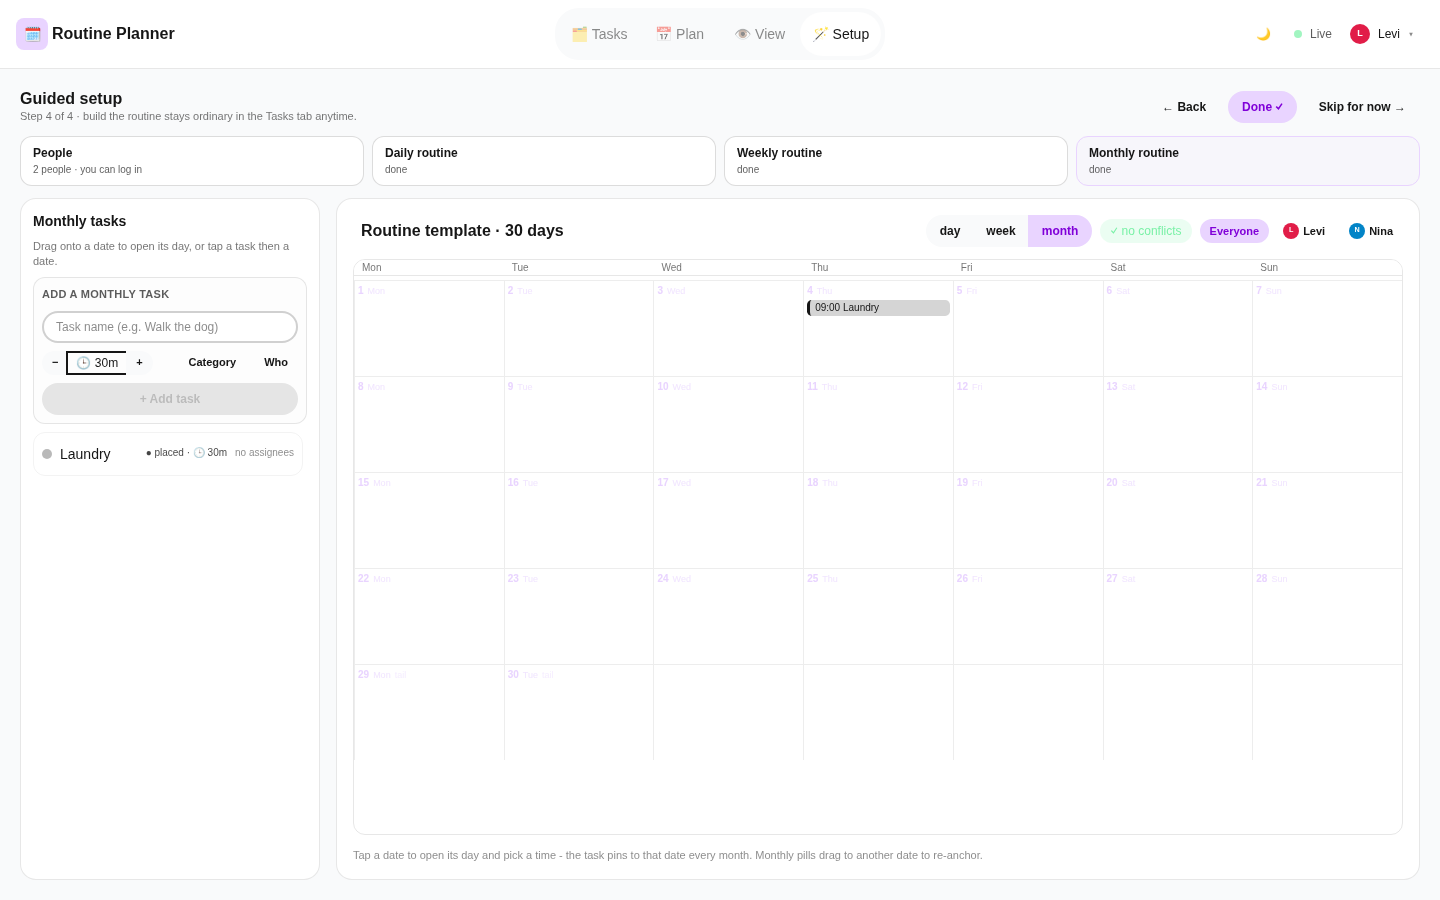
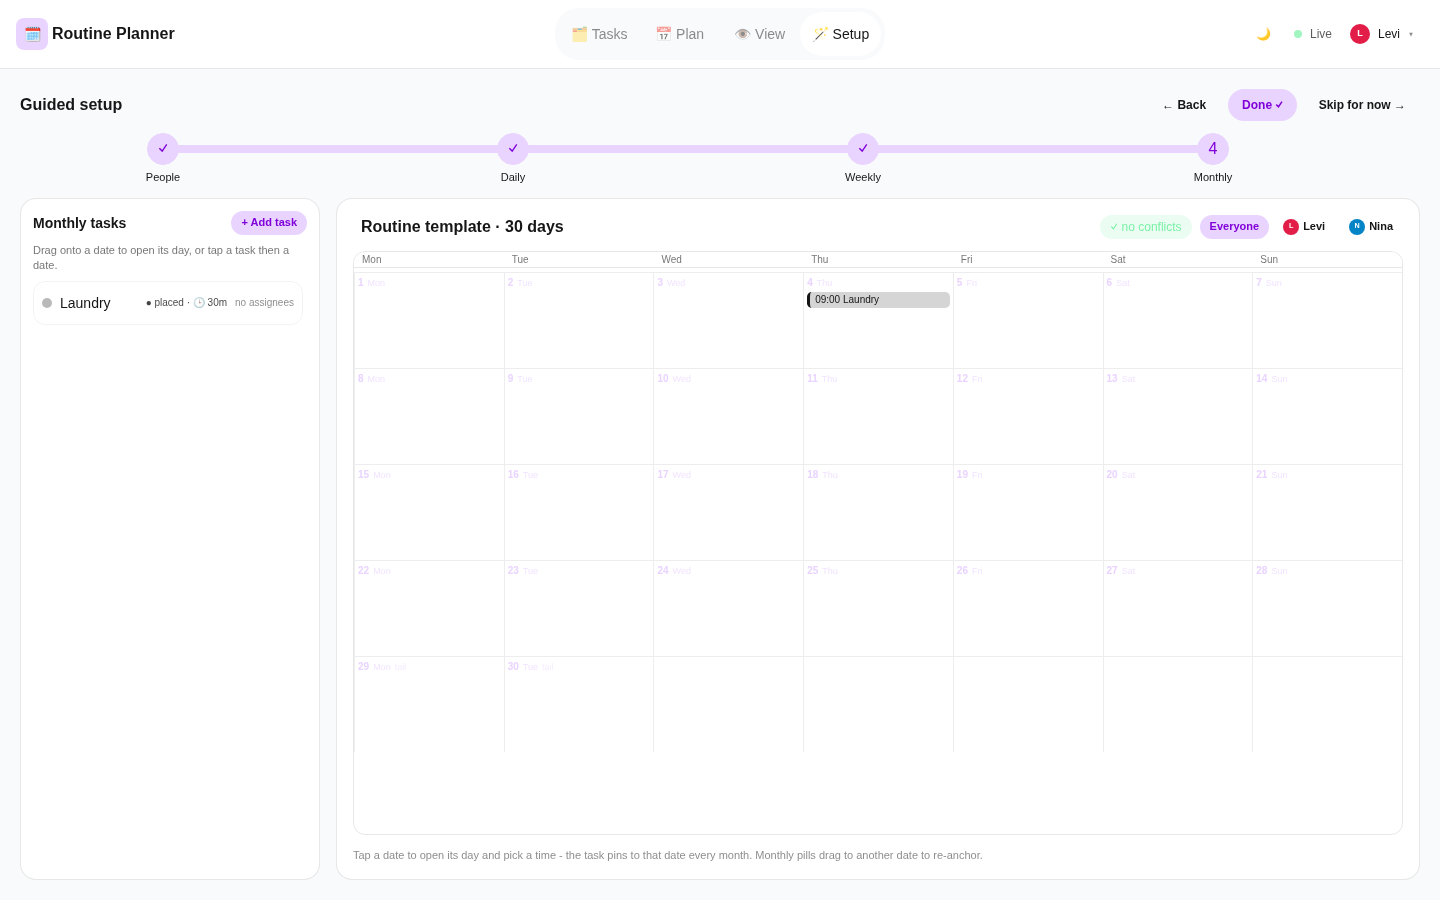
d   - plan: setup-as-plan-view decisions applied to the review artifact

diff --git a/.lavish/setup-as-plan-view.html b/.lavish/setup-as-plan-view.html
@@ -97,10 +97,41 @@
     </details>
   </section>
 
+  <!-- ============ applied decisions ============ -->
+  <section class="flex flex-col gap-4">
+    <h2 class="text-xl font-bold">Applied decisions (commit 5b093aa)</h2>
+    <div class="grid gap-3 md:grid-cols-2">
+      <div class="card bg-base-100 border border-success/40">
+        <div class="card-body p-4 gap-2">
+          <h3 class="font-bold text-sm">B · Slim stepper in the header</h3>
+          <p class="text-sm muted">The four hub cards are gone. One thin DaisyUI <code class="kbd kbd-sm">steps</code> row sits under the Back/Next controls: numbered dots, ✓ for finished steps, click any step to jump, and a small warning badge only while a scale is incomplete. The calendar gained the reclaimed row.</p>
+        </div>
+      </div>
+      <div class="card bg-base-100 border border-success/40">
+        <div class="card-body p-4 gap-2">
+          <h3 class="font-bold text-sm">Add-task noise removed</h3>
+          <p class="text-sm muted">The inline quick-add form is deleted. The rail now shows a single <b>+ Add task</b> button that opens the same TaskForm dialog the Tasks tab uses, with the stage's cadence preselected (daily opens with Daily pressed). One add experience everywhere.</p>
+        </div>
+      </div>
+      <div class="card bg-base-100 border border-success/40">
+        <div class="card-body p-4 gap-2">
+          <h3 class="font-bold text-sm">Feature visibility per your picks</h3>
+          <p class="text-sm muted">Person filter chips, conflict badge and rail category chips stay in setup. The day/week/month switcher is hidden in setup stages; in monthly it appears only inside a day drill, where "month" is the way back - switcher only, no dedicated button, as chosen.</p>
+        </div>
+      </div>
+      <div class="card bg-base-100 border border-success/40">
+        <div class="card-body p-4 gap-2">
+          <h3 class="font-bold text-sm">Empty stages unchanged</h3>
+          <p class="text-sm muted">The quiet text hint stays ("Nothing here yet - add one above…"), per your call. The + Add task button above it is the louder affordance.</p>
+        </div>
+      </div>
+    </div>
+  </section>
+
   <!-- ============ current state screenshots ============ -->
   <section class="flex flex-col gap-4">
-    <h2 class="text-xl font-bold">Current state (real screenshots)</h2>
-    <p class="muted text-sm">Same view, four scopes. Note the wizard chrome above each one: header row + four hub cards - that's ~90px of chrome before the calendar starts.</p>
+    <h2 class="text-xl font-bold">Current state (real screenshots, post-decisions)</h2>
+    <p class="muted text-sm">Same view, four scopes, new chrome. Daily/weekly/monthly open with one chrome row + stepper; the monthly drill adds the switcher as its way back.</p>
     <div role="tablist" class="tabs tabs-box self-start">
       <input type="radio" name="shots" role="tab" class="tab" aria-label="Hub" checked>
       <div role="tabpanel" class="tab-content pt-4">
@@ -236,62 +267,6 @@
       </article>
     </div>
     <p class="text-sm muted">Recommendation: <b>B</b> as the default chrome, optionally layered with <b>D</b> later for the first-run moment. B removes a chrome row, keeps all four statuses one click away, and is a ~30-line change inside SetupView. A is the fallback if you value the always-visible status cards over the vertical space.</p>
-  </section>
-
-  <!-- ============ decisions ============ -->
-  <section class="flex flex-col gap-4">
-    <h2 class="text-xl font-bold">Your calls</h2>
-    <p class="muted text-sm">Pick per question and queue the answer - each submit sends exactly that one answer.</p>
-
-    <div class="grid gap-4 lg:grid-cols-2">
-
-      <form class="card bg-base-100 border border-base-content/10" data-lavish-question="chrome-direction"
-        onsubmit="event.preventDefault(); const v = new FormData(event.currentTarget).get('chrome'); if (v) window.lavish.queuePrompt('Setup chrome direction: ' + v, { tag: 'decision', text: 'Chrome direction: ' + v, element: event.currentTarget, data: { question: 'chrome-direction', answer: v } });">
-        <div class="card-body p-4 gap-2">
-          <h3 class="font-bold text-sm">1 · Wizard chrome direction</h3>
-          <label class="label"><input type="radio" name="chrome" value="A - keep hub cards" class="radio radio-sm"> <span>A - keep hub cards</span></label>
-          <label class="label"><input type="radio" name="chrome" value="B - slim stepper in header" class="radio radio-sm"> <span>B - slim stepper in header (recommended)</span></label>
-          <label class="label"><input type="radio" name="chrome" value="C - floating coach bar" class="radio radio-sm"> <span>C - floating coach bar</span></label>
-          <label class="label"><input type="radio" name="chrome" value="B now + D for first-run" class="radio radio-sm"> <span>B now, immersive D for first-run later</span></label>
-          <button type="submit" class="btn btn-primary btn-sm self-start">Queue this answer</button>
-        </div>
-      </form>
-
-      <form class="card bg-base-100 border border-base-content/10" data-lavish-question="plan-view-features"
-        onsubmit="event.preventDefault(); const f = new FormData(event.currentTarget); const picked = f.getAll('feat').join('; ') || 'none'; window.lavish.queuePrompt('Setup plan-view features to keep: ' + picked, { tag: 'decision', text: 'Keep in setup: ' + picked, element: event.currentTarget, data: { question: 'plan-view-features', answer: picked } });">
-        <div class="card-body p-4 gap-2">
-          <h3 class="font-bold text-sm">2 · Plan-view features inside setup</h3>
-          <p class="muted text-xs">Which Plan-tab features should stay visible in the setup stages?</p>
-          <label class="label"><input type="checkbox" name="feat" value="person filter chips" class="checkbox checkbox-sm"> <span>Person filter chips</span></label>
-          <label class="label"><input type="checkbox" name="feat" value="conflict badge" class="checkbox checkbox-sm"> <span>Conflict badge</span></label>
-          <label class="label"><input type="checkbox" name="feat" value="day/week/month switcher in monthly" class="checkbox checkbox-sm"> <span>Day/week/month switcher (monthly stage)</span></label>
-          <label class="label"><input type="checkbox" name="feat" value="category chips in rail" class="checkbox checkbox-sm"> <span>Category filter chips in the rail</span></label>
-          <button type="submit" class="btn btn-primary btn-sm self-start">Queue this answer</button>
-        </div>
-      </form>
-
-      <form class="card bg-base-100 border border-base-content/10" data-lavish-question="monthly-drill"
-        onsubmit="event.preventDefault(); const v = new FormData(event.currentTarget).get('drill'); if (v) window.lavish.queuePrompt('Monthly drill return: ' + v, { tag: 'decision', text: 'Monthly drill return: ' + v, element: event.currentTarget, data: { question: 'monthly-drill', answer: v } });">
-        <div class="card-body p-4 gap-2">
-          <h3 class="font-bold text-sm">3 · Getting back from a day drill (monthly)</h3>
-          <label class="label"><input type="radio" name="drill" value="switcher only (current)" class="radio radio-sm"> <span>Switcher only - click "month" (current)</span></label>
-          <label class="label"><input type="radio" name="drill" value="dedicated back button" class="radio radio-sm"> <span>Dedicated "← Month" button like the old drill</span></label>
-          <button type="submit" class="btn btn-primary btn-sm self-start">Queue this answer</button>
-        </div>
-      </form>
-
-      <form class="card bg-base-100 border border-base-content/10" data-lavish-question="empty-state"
-        onsubmit="event.preventDefault(); const v = new FormData(event.currentTarget).get('nudge'); if (v) window.lavish.queuePrompt('Empty-stage nudge: ' + v, { tag: 'decision', text: 'Empty-stage nudge: ' + v, element: event.currentTarget, data: { question: 'empty-state', answer: v } });">
-        <div class="card-body p-4 gap-2">
-          <h3 class="font-bold text-sm">4 · Empty stages</h3>
-          <p class="muted text-xs">Today an empty stage shows "Nothing here yet - add one above…". Should the first empty stage get a stronger nudge?</p>
-          <label class="label"><input type="radio" name="nudge" value="keep current text hint" class="radio radio-sm"> <span>Keep the text hint - it's enough</span></label>
-          <label class="label"><input type="radio" name="nudge" value="big CTA with inline name field" class="radio radio-sm"> <span>Bigger CTA - focus the name field automatically</span></label>
-          <label class="label"><input type="radio" name="nudge" value="skip suggestion" class="radio radio-sm"> <span>Suggest skipping the scale instead</span></label>
-          <button type="submit" class="btn btn-primary btn-sm self-start">Queue this answer</button>
-        </div>
-      </form>
-    </div>
   </section>
 
   <!-- ============ risks ============ -->
